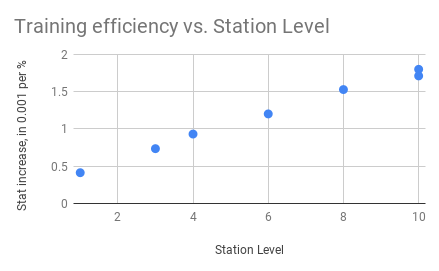
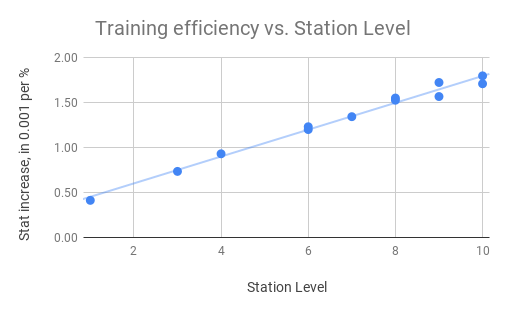
Update training efficiency graph
also add formula for training efficiency

diff --git a/README.md b/README.md
@@ -372,6 +372,9 @@ the stat increase is around 0.019.
 
 ![](training-efficiency.png)
 
+The training efficiency is roughly 0.3 + 0.15 * level, in 1/1000 points
+stat gain per Percent focus invested.
+
 The training efficiency on shuttle/ship rides is the same as training on
 the destination station.
 
